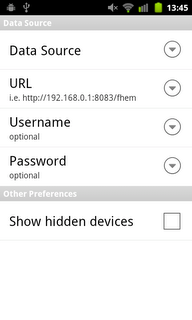
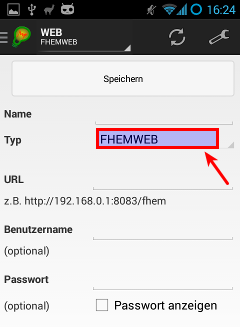
new installation manual, updated gcm manual

diff --git a/installation.html b/installation.html
@@ -8,23 +8,47 @@ weight: 2
 <div id="installation">
   <h1>Installation</h1>
 
-
-
-
-  <p>When starting andFHEM the first time some dummy data is used for previewing what the application looks like and what devices are supported. To use your own FHEM server, touch your context menu button and click on Preferences. </p>
   
   <div class="toc"></div>
+
+  <h2 id="configuring_connections">Configuring Connections</h2>
+  (<a class="back-to-top">up</a>)
+
+  <p>When starting andFHEM the first time some dummy data is used for previewing what the application looks like and what devices are supported. To use your own FHEM server click on the selector in the action bar. This selector always contains the name of the connection that is currently used for pulling data from a FHEM server.</p>
   
-  <h2 id="dummyDataPreferenceScreen">Dummy Data Preference Screen</h2>
+  <a href="images/installation/connectionType.png"><img src="images/installation/connectionType.png" /></a>
+    
+  <p>After clicking the selector a submenu opens. This submenu contains all configured connections. When clicking a connection name, the current connection used for pulling information from FHEM changes to that new one. When selecting the bottom item, which is called "Manage" or "Verwalten", you are directed to a view where you can manage your connections.</p>
+  
+  <a href="images/installation/connectionList.png"><img src="images/installation/connectionList.png" /></a>
+
+  <p>All the configured connections are listed here. When clicking such a connection, you can edit all configured connection items like URL, username or password. When clicking "Create a new connection" or "Neue Verbindung erstellen", you can create a new one.</p>
+  
+  <p>Changing a configuration or adding a new one always looks the same, except that you cannot change the connection type when editing a connection.</p>
+  
+  <table >
+    <tr>
+      <td style="vertical-align: top"><a href="images/installation/fhemweb.png"><img src="images/installation/fhemweb.png" /></a></td>
+      <td style="vertical-align: top"><a href="images/installation/telnet.png"><img src="images/installation/telnet.png" /></a></td>
+    </tr>
+  </table>
+  
+  <p>Enter your credentials and click "Save" or "Speichern". When leaving the configuration view with the back key and reentering the collection list selector, you can select your newly created connection.</p>
+  
+  <h2 id="fhemweb">FHEMWEB</h2>
   (<a class="back-to-top">up</a>)
   
-  <p>You can now see a preference screen. It includes the options for the dummy data connection - so basically none. Still, you can click on Data Source to select another type of source to load the FHEM data from. Clicking on the button brings up a popup screen like the following:</p>
-  
-  <a href="images/installation/datasource-selector.png"><img src="images/installation/datasource-selector.png" /></a>
+  <p>FHEM supports some web interfaces delivered together with the server itself. One of these web interfaces is FHEMWEB, which is configured by adding a line like <span class="code">define fhemweb FHEMWEB 8083 global</span> to your <i>fhem.cfg</i>. Before any data within andFHEM, make sure that you can access the web interface in a browser, either on your smartphone or on another computer. You should see a web page like the following:</p>
+    
+    <img src="images/installation/fhemweb_view.png" />
+    
+    <p>The same address you just entered is expected by andFHEM in the URL field within the FHEMWEB preferences. Trailing slashes do not matter. The username and password fields can be filled optionally. They are required if you want to authenticate yourself using basic authentication. If you do not know what this means, stop reading here and leave the fields empty. </p>
 
+    <p>If you want to use the authentication feature you have to make sure that your fhem.cfg contains a line like <span class="code">attr fhemweb basicAuth aj38219cnake</span>. For information how to create the string after basicAuth, continue reading here. Now just enter your username and password in andFHEM.</p>
+    
   <h2 id="telnet">Telnet</h2>
   (<a class="back-to-top">up</a>)
-  
+
   <p>FHEM supports a very basic command line interface to query the current state of devices. Before selecting this option, make sure that you can access the interface from another computer in your local network.</p>
 
   <p>When using Windows, download Putty and start the program. Select telnet as connection option, enter the address of your FHEM server and add the specified port in your FHEM configuration. The port defaults to 7072. When clicking hitting the button to open the connection, a black window opens up. Hit two times enter to see the FHEM prompt showing up. If this works, andFHEM is also able to connect to FHEM.</p>
@@ -32,25 +56,6 @@ weight: 2
   <p>If not, make sure that your fhem.cfg contains a line such as the following: attr global port 7072 global. 7072 is the port used for opening up the command line interface. Global specifies that computers can connect to the server without connecting from the computer running the FHEM server.</p>
 
   <p>When the above connection is successful you can enter the configuration data in andFHEM in the appropriate fields. The IP field should contain something like 192.168.0.1. It is the address of the computer running the FHEM server. Port is the above mentioned FHEM command line interface port, such as 7072.</p>
-
-  <p>Afterwards click back and refresh the loaded data. You should now see your own devices!</p>
-
-  <a href="images/installation/telnet.png"><img src="images/installation/telnet.png" /></a>
-  
-  <h2 id="fhemweb">FHEMWEB</h2>
-  (<a class="back-to-top">up</a>)
-  
-  <p>FHEM supports some web interfaces delivered together with the server itself. One of these web interfaces is FHEMWEB, which is configured by adding a line like <span class="code">define fhemweb FHEMWEB 8083 global</span> to your <i>fhem.cfg</i>. Before any data within andFHEM, make sure that you can access the web interface in a browser, either on your smartphone or on another computer. You should see a web page like the following:</p>
-  
-  <img src="images/installation/fhemweb_view.png" />
-  
-  <p>The same address you just entered is expected by andFHEM in the URL field within the FHEMWEB preferences. Trailing slashes do not matter. The username and password fields can be filled optionally. They are required if you want to authenticate yourself using basic authentication. If you do not know what this means, stop reading here and leave the fields empty. </p>
-
-  <p>If you want to use the authentication feature you have to make sure that your fhem.cfg contains a line like <span class="code">attr fhemweb basicAuth aj38219cnake</span>. For information how to create the string after basicAuth, continue reading here. Now just enter your username and password in andFHEM.</p>
-
-  <p>Finally, touch your back button and refresh the loaded data. You should now see your own devices!</p>
-  
-  <a href="images/installation/fhemweb.png"><img src="images/installation/fhemweb.png" /></a>
   
   <h2 id="gcm">Google Cloud Messaging</h2>
   (<a class="back-to-top">up</a>)
@@ -71,10 +76,20 @@ weight: 2
       
       <li>Create a Google GCM Account.
         <ul>
-          <li>Go to <a href="https://code.google.com/apis/console/">https://code.google.com/apis/console/</a> and create a new API project.</li>
-          <li>Enable "Google Cloud Messaging for Android" under "Services"</li>
-          <li>Under "API Access" hit "Create new browser key", the generated API key is required for configuring GCM afterwards
-            <a href="images/installation/google_console.png"><img src="images/installation/google_console.png" /></a>
+          <li>Go to <a href="https://code.google.com/apis/console/">https://code.google.com/apis/console/</a> and create a new API project. <br />
+          <a href="images/installation/gcm/01_create.png"><img src="images/installation/gcm/01_create.png" /></a>
+          </li>
+          <li>Enter your newly created project and enable "Google Cloud Messaging for Android" under "APIs & auth" > "Api" <br/>
+          <a href="images/installation/gcm/02_api_enable.png"><img src="images/installation/gcm/02_api_enable.png" /></a>
+          </li>
+          <li>Jump to the submenu "Registered Apps" and click "Register App".<br />
+            <a href="images/installation/gcm/03_register_app.png"><img src="images/installation/gcm/03_register_app.png" /></a>
+          </li>
+          <li>A new window opens to enter some information. Enter some name (doesn't matter which one) and select "Web Application" as platform. Continue with "Register".<br/>
+          <a href="images/installation/gcm/04_register_detail.png"><img src="images/installation/gcm/04_register_detail.png" /></a>
+          </li>
+          <li>We are directed to a new page containing the API-key we wanted to obtain: <br/>
+            <a href="images/installation/gcm/05_browser_key.png"><img src="images/installation/gcm/05_browser_key.png" /></a>
           </li>
           <li>We have to configure the plug-in to talk to GCM. This is why we have to issue an FHEM command: <br/>
             <span class="code">attr &lt;gcm_device_name&gt; apiKey &lt;apiKey&gt;</span><br />
@@ -84,15 +99,14 @@ weight: 2
             Link andFHEM
             <ul>
               <li>Enter the andFHEM settings and enter the GCM project number (from the Google console page in section "Overview") within the field "GCM Project Id".</li>
-              <li>Refresh your xmllist and look for your GCMSend device you just created. Open the detail page and click the button to register your device. Internally, andFHEM will add your device as regIds attribute of your gcm device.</li>
+              <li>Refresh your xmllist and look for your GCMSend device you just created. Open the detail page and click the button to register your device. Internally, andFHEM will add your device as regIds attribute of your gcm device. <br />
+                <a href="images/installation/gcm/gcm_app.png"><img src="images/installation/gcm/gcm_app.png" /></a>
+                </li>
             </ul>
           </li>
         </ul>
       </li>
     </ul>
-    
-    <a href="images/installation/gcm.png"><img src="images/installation/gcm.png" /></a>
-  
   </p>
 
 </div>
